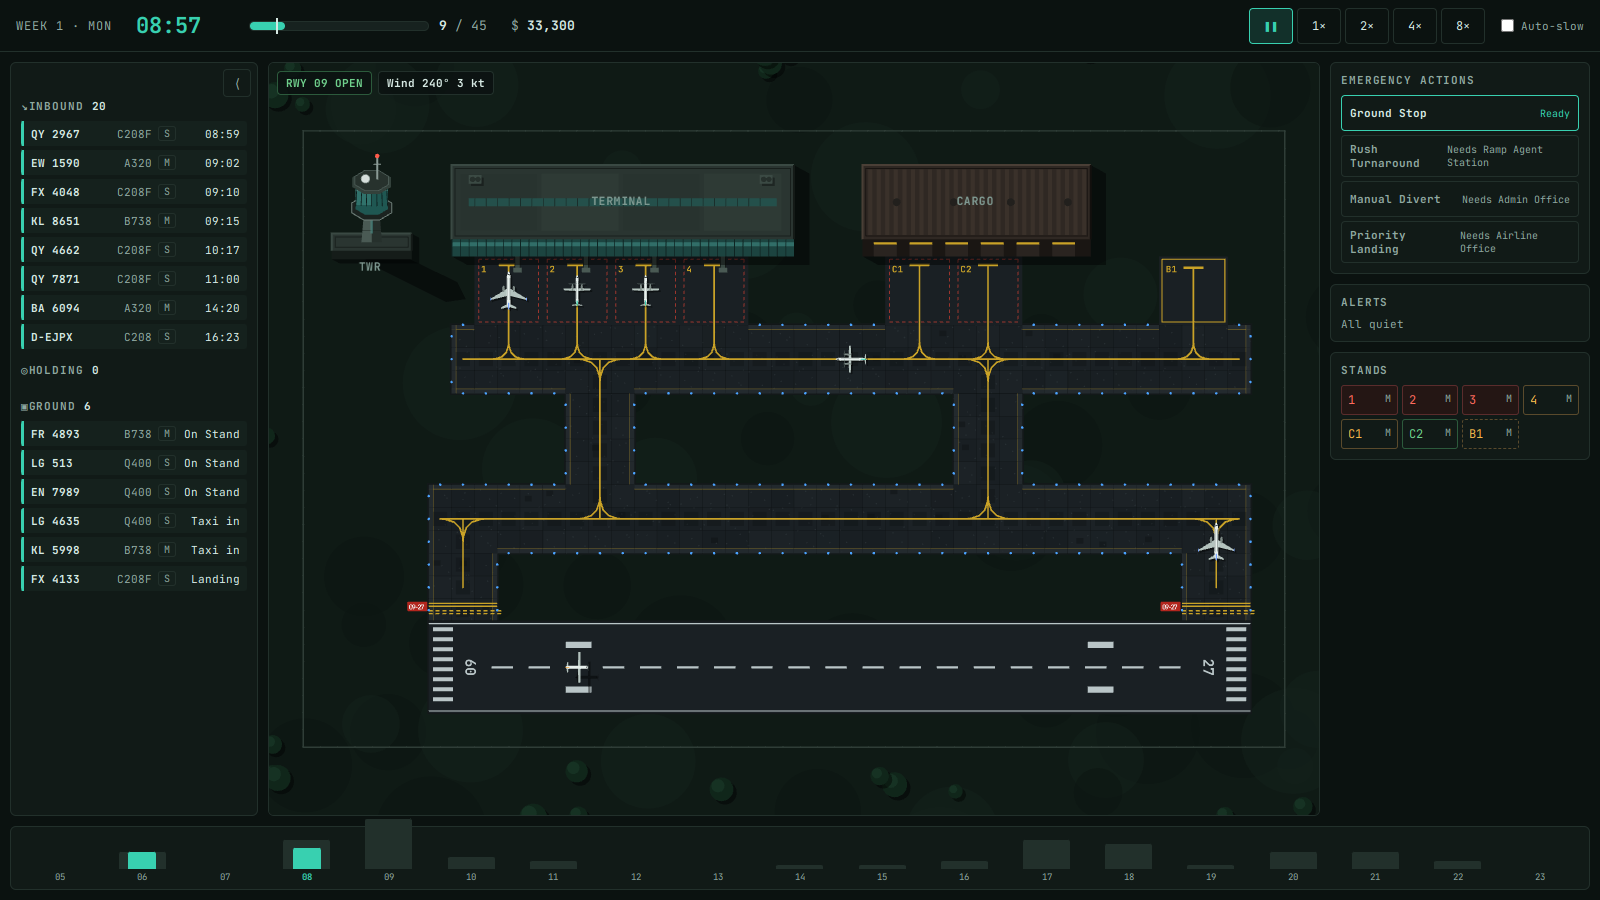
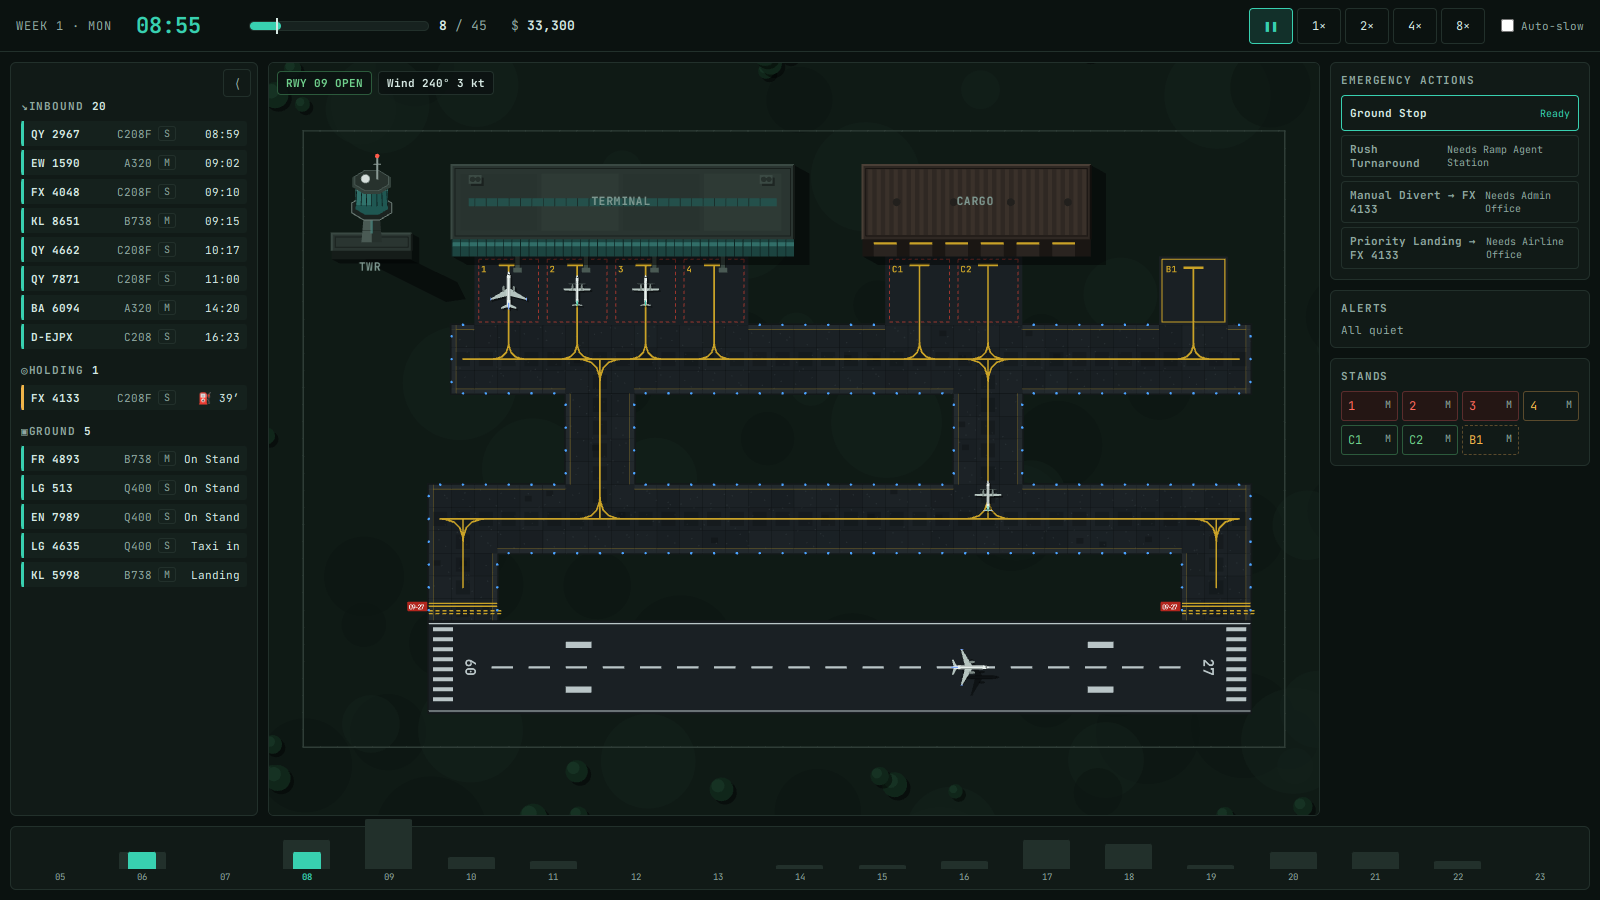
Departures caught by dusk turn round to a Stand for the night (#54)
- At 20:00 a departure taxiing to or holding short of an unlit Runway goes to a Lit/ILS Runway, or back to a free Stand for the night
- After dark departures only go to Lit/ILS Runways

Claude-Session: https://claude.ai/code/session_017hX3Qn5kxjmg8hzks2eA6J

diff --git a/src/sim/simulation.ts b/src/sim/simulation.ts
@@ -578,7 +578,7 @@ function updateDirections(sim: MutableSim, flights: Mutable<Flight>[], now: numb
 
 const activeName = (a: RunwayAccess, reverse: boolean) => (a.vertical ? (reverse ? '36' : '18') : reverse ? '27' : '09');
 
-function departureRunway(sim: Simulation, flights: readonly Flight[], f: Flight): RunwayAccess | undefined {
+function departureRunway(sim: Simulation, flights: readonly Flight[], f: Flight, now: number): RunwayAccess | undefined {
   const queue = (a: RunwayAccess) => flights.filter((o) => o.runway === a.index && (o.phase === 'taxiOut' || o.phase === 'holdShort')).length;
   // only Runways whose hold point is reachable from the aircraft's Stand
   const stand = standById(sim, f.standId);
@@ -588,8 +588,47 @@ function departureRunway(sim: Simulation, flights: readonly Flight[], f: Flight)
     const hold = holdOf(sim, a);
     return here === undefined || sim.network.component.get(`${hold.x},${hold.y}`) === here;
   };
-  return [...fittingRunways(sim, f)].filter(reachable).sort((a, b) => queue(a) - queue(b) || a.index - b.index)[0]
-    ?? sim.network.runways.find(reachable);
+  // after dark only a Lit or ILS Runway will do
+  const candidates = fittingRunways(sim, f).filter((a) => reachable(a) && (!isDark(now) || lit(sim, a)));
+  return candidates.sort((a, b) => queue(a) - queue(b) || a.index - b.index)[0]
+    ?? (isDark(now) ? undefined : sim.network.runways.find(reachable));
+}
+
+/**
+ * At dusk a departure taxiing to, or holding short of, a Runway that can't be used at night goes to a fitting Lit or
+ * ILS Runway it can reach; if there is none it turns round to a free Stand (Contact or Remote; else a Holding Bay) and
+ * stays there for the night. With nowhere free it stays where it is.
+ */
+function nightTurnBack(sim: MutableSim, f: Mutable<Flight>, now: number): void {
+  const access = accessOf(sim, f);
+  const at = f.phase === 'holdShort' && access ? holdOf(sim, access) : f.route[Math.min(Math.floor(f.routeProgress), f.route.length - 1)];
+  if (!at || !sim.network.tiles.has(`${at.x},${at.y}`)) return; // still leaving its Stand: decide once on the Taxiway
+  const here = sim.network.component.get(`${at.x},${at.y}`);
+  const litOut = fittingRunways(sim, f).find((a) => {
+    const hold = holdOf(sim, a);
+    return lit(sim, a) && sim.network.component.get(`${hold.x},${hold.y}`) === here;
+  });
+  if (litOut) {
+    f.runway = litOut.index;
+    f.route = taxiRoute(sim.network, at, holdOf(sim, litOut));
+  } else {
+    const stand = freeFittingStand(sim, f);
+    const spot = stand ?? freeFittingBay(sim, f);
+    if (!spot) return;
+    if (stand) {
+      sim.standOccupant[stand.id] = f.id;
+      f.standId = stand.id;
+    } else {
+      sim.bayOccupant[spot.id] = f.id;
+      f.bayId = spot.id;
+    }
+    f.runway = -1;
+    f.route = routeToStand(sim.network, at, spot);
+    f.phase = 'taxiIn';
+  }
+  f.routeProgress = 0;
+  f.waitingSince = undefined;
+  f.phaseStart = now;
 }
 
 function divert(sim: MutableSim, f: Mutable<Flight>, now: number, reason: DiversionReason): void {
@@ -933,6 +972,10 @@ function stepFlight(sim: MutableSim, f: Mutable<Flight>, now: number, closed: Cl
     f.phase = phase;
     f.phaseStart = now;
   };
+  if ((f.phase === 'taxiOut' || f.phase === 'holdShort') && isDark(now)) {
+    const access = accessOf(sim, f);
+    if (!access || !lit(sim, access)) nightTurnBack(sim, f, now);
+  }
   switch (f.phase) {
     case 'scheduled':
       if (now < f.arrivalMinute) break;
@@ -1009,7 +1052,7 @@ function stepFlight(sim: MutableSim, f: Mutable<Flight>, now: number, closed: Cl
       }
       if (now < f.phaseStart + turnaround) break;
       if (isDark(now) && !nightRunwayFor(sim, f)) break; // stays overnight
-      const out = departureRunway(sim, sim.flights, f);
+      const out = departureRunway(sim, sim.flights, f, now);
       if (!out) break; // no usable Runway at all
       f.runway = out.index;
       f.route = routeFromStand(sim.network, stand!, holdOf(sim, out));

diff --git a/src/sim/taxiClosure.test.ts b/src/sim/taxiClosure.test.ts
@@ -143,3 +143,29 @@ describe('A blocked Runway exit', () => {
     expect(sim.flights.find((f) => f.id === 'H')!.phase).not.toBe('holding'); // lands once the exit is clear again
   });
 });
+
+describe('Departures at dusk', () => {
+  it('turn round from an unlit Runway to a free Stand and stay there for the night', async () => {
+    const { carryOver } = await import('./simulation');
+    const hold = network.holdPoint;
+    let sim: Simulation = createSimulation({ layout, seed: 4, schedule: ['D', 'E'].map((id) => ({ id, type: 'A320' as const, arrivalMinute: 1300 })) });
+    sim = { ...sim, clock: { minute: 20 * 60, pendingRealMs: 0 } };
+    const lane = taxiRoute(network, { x: 30, y: 17 }, hold);
+    const crafted: Partial<Record<string, Partial<Flight>>> = {
+      D: { phase: 'holdShort', phaseStart: sim.clock.minute, runway: 0, route: [hold], routeProgress: 0, position: { x: 0, y: 0 }, unloaded: true },
+      E: { phase: 'taxiOut', phaseStart: sim.clock.minute, runway: 0, route: lane, routeProgress: 2, position: { x: 0, y: 0 }, unloaded: true },
+    };
+    sim = { ...sim, flights: sim.flights.map((f) => ({ ...f, ...crafted[f.id] }) as Flight) };
+    while (sim.clock.minute < 20 * 60 + 30) {
+      sim = stepSimulation(sim);
+      if (sim.pendingAlert) sim = { ...sim, pendingAlert: null };
+    }
+    for (const id of ['D', 'E']) {
+      const f = sim.flights.find((x) => x.id === id)!;
+      expect(f.phase).toBe('onStand');
+      expect(f.standId).not.toBeNull();
+    }
+    expect(sim.events.some((e) => e.kind === 'crash' || e.kind === 'diversion')).toBe(false);
+    expect(carryOver(sim).map((f) => f.id).sort()).toEqual(['D', 'E']); // they leave next morning
+  });
+});

diff --git a/docs/game-design.md b/docs/game-design.md
@@ -23,6 +23,10 @@ Screen, which turns Score into Air Miles for the meta-progression.
 - Auto-slow (option): while any aircraft is landing or taking off, the game runs at 1×.
 - Operating hours (`simulation.ts → HOURS`): no Movements before 06:00; from 20:00 (dusk) only Lit or ILS Runways
   work; no new arrivals after 22:00; anything still airborne at 24:00 is Diverted (Curfew).
+- **Night departures:** after dusk a departure only leaves its Stand for a fitting Lit or ILS Runway. One already
+  taxiing to, or holding short of, a Runway that can't be used at night goes to a reachable fitting Lit/ILS Runway
+  instead; if there is none it turns round to a free fitting Stand (Contact or Remote; else a Holding Bay), stays
+  overnight and leaves the next morning.
 - The Day ends early once nothing more can happen (last departure gone, the rest parked overnight).
 - The game is deterministic: one Run Seed (shown, copyable, replayable) drives every random roll through a seeded RNG.
 
